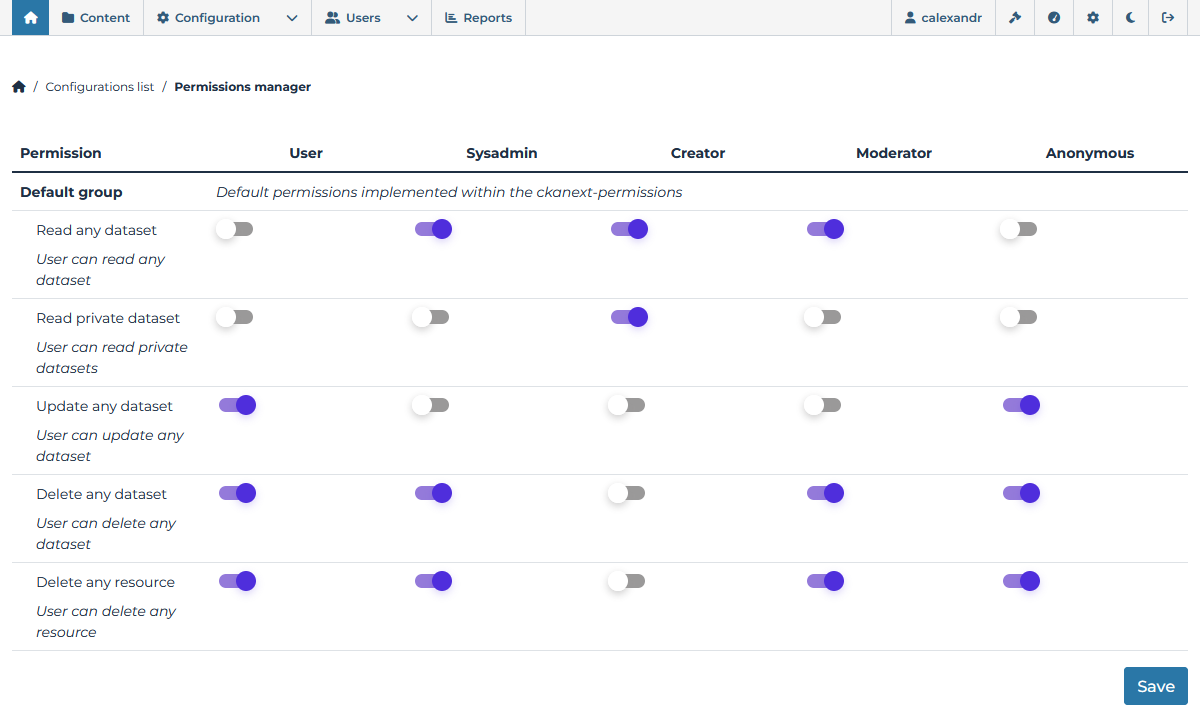
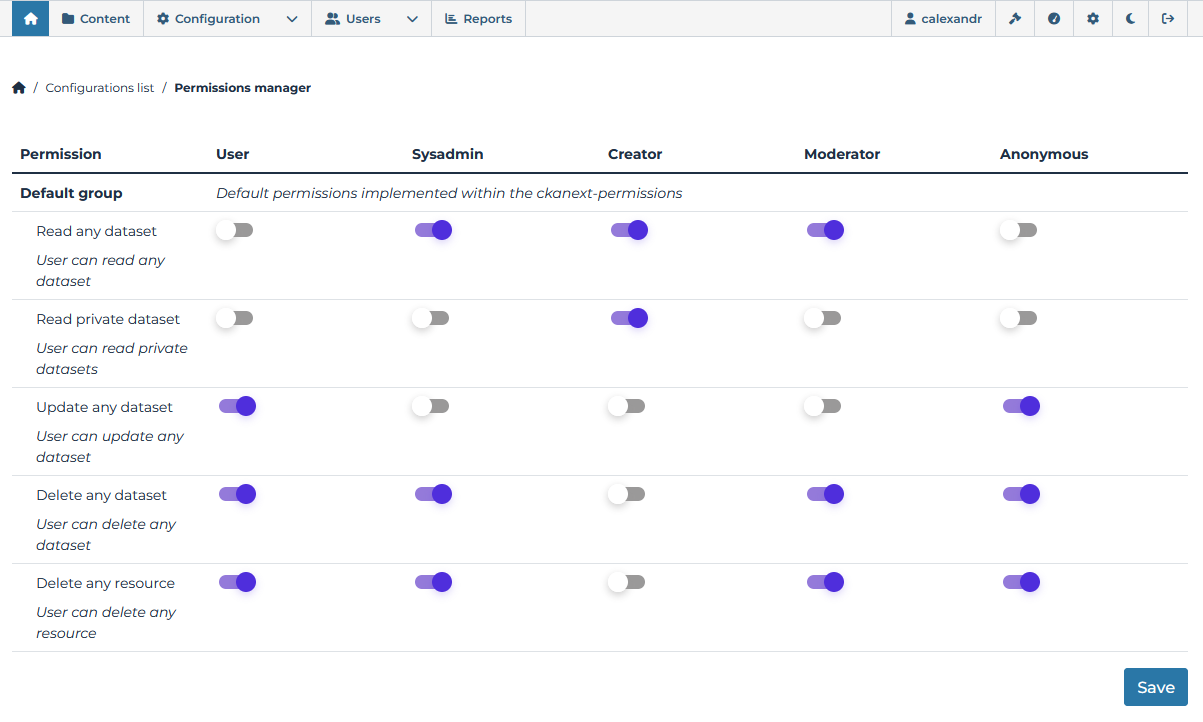
update test workflow, minor style changes

diff --git a/ckanext/permissions_manager/templates/perm_manager/edit_role.html b/ckanext/permissions_manager/templates/perm_manager/edit_role.html
@@ -10,7 +10,6 @@
 
 {% block ap_content %}
     <form action="" method="POST">
-        {{ errors }}
         <p class="form-label"><b>{{ _('ID') }}</b></p>
         <p class="form-control">{{ role.id }}</p>
 
@@ -20,7 +19,7 @@
         {{ form.textarea('description', label=_('Description'), value=role.description, error=errors.description, attrs={"required": 1, "class": "form-control"}, is_required=True) }}
 
         <div class="form-actions">
-            <a href="{{ h.url_for('perm_manager.role_list') }}" class="btn btn-default">{{ _("Cancel") }}</a>
+            <a href="{{ h.url_for('perm_manager.role_list') }}" class="btn btn-outline-primary">{{ _("Cancel") }}</a>
             <button type="submit" class="btn btn-primary">{{ _("Update") }}</button>
         </div>
     </form>

diff --git a/ckanext/permissions_manager/templates/perm_manager/add_role.html b/ckanext/permissions_manager/templates/perm_manager/add_role.html
@@ -17,7 +17,7 @@
         {{ form.textarea('description', label=_('Description'), value=data.description, error=errors.description, attrs=attrs, is_required=True) }}
 
         <div class="form-actions">
-            <a href="{{ h.url_for('perm_manager.role_list') }}" class="btn btn-default">{{ _("Cancel") }}</a>
+            <a href="{{ h.url_for('perm_manager.role_list') }}" class="btn btn-outline-primary">{{ _("Cancel") }}</a>
             <button type="submit" class="btn btn-primary">{{ _("Create") }}</button>
         </div>
     </form>

diff --git a/ckanext/permissions_manager/templates/perm_manager/user_roles_list.html b/ckanext/permissions_manager/templates/perm_manager/user_roles_list.html
@@ -9,6 +9,12 @@
 {% endblock breadcrumb_content %}
 
 {% block ap_content %}
+    <p>
+        {{ _("You can assign roles to users to control their access to the system.") }}
+    </p>
+    <p>
+        {{ h.render_markdown(_("Roles assigned there will be considered as a **global** roles.")) }}
+    </p>
     <form action="" method="POST">
         <table class="table collection-table">
             <colgroup>

diff --git a/ckanext/permissions_manager/templates/perm_manager/role_list.html b/ckanext/permissions_manager/templates/perm_manager/role_list.html
@@ -34,7 +34,7 @@
                     <tr>
                         <td>
                             {{ role.label }}
-                            <pre>{{ role.id }}</pre>
+                            <pre class="m-0">{{ role.id }}</pre>
                         </td>
                         <td>
                             <i>{{ role.description }}</i>

diff --git a/ckanext/permissions_manager/templates/perm_manager/list.html b/ckanext/permissions_manager/templates/perm_manager/list.html
@@ -17,7 +17,7 @@
                     <th>{{ _("Permission") }}</th>
 
                     {% for role_name, role_label in registered_roles.items() %}
-                        <th class="text-center">{{ role_label }}</th>
+                        <th>{{ role_label }}</th>
                     {% endfor %}
                 </tr>
             </thead>
